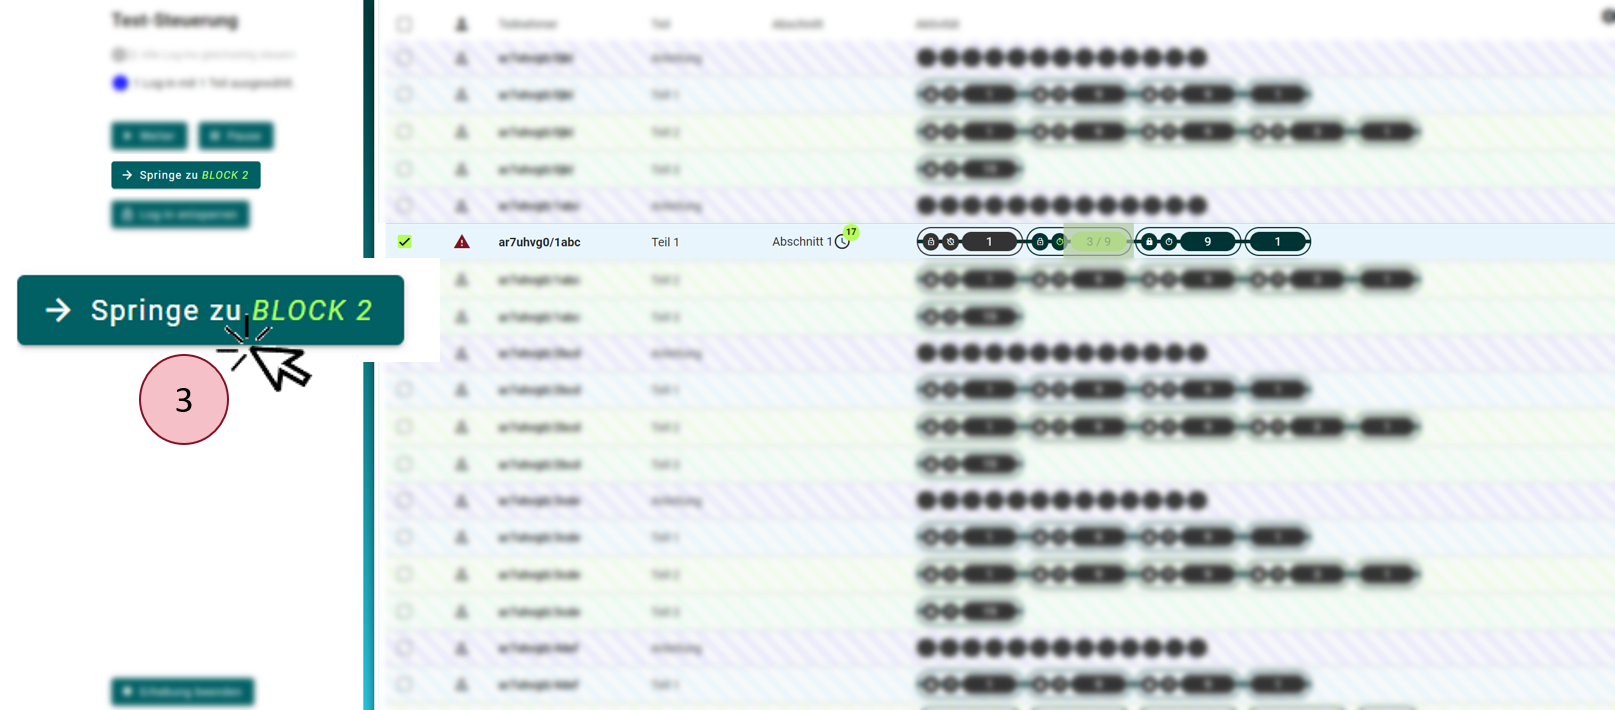
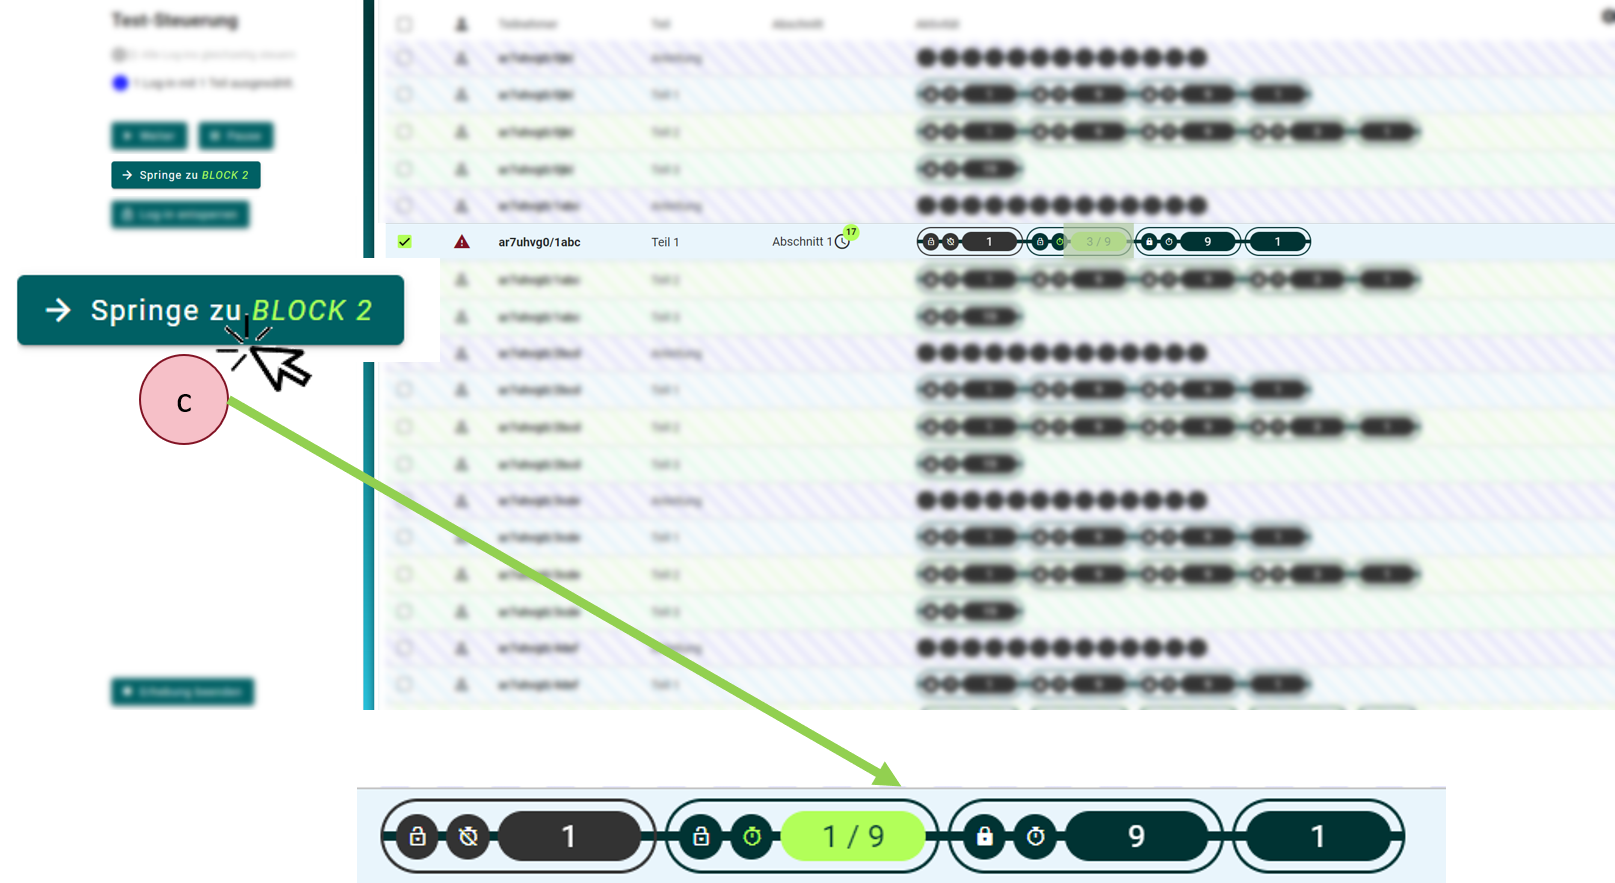
improve monitor

diff --git a/docs/monitor.html b/docs/monitor.html
@@ -98,10 +98,6 @@ ul.task-list li input[type="checkbox"] {
     <a class="nav-link active" href="./monitor.html" aria-current="page"> 
 <span class="menu-text">Testleitungskonsole</span></a>
   </li>  
-  <li class="nav-item">
-    <a class="nav-link" href="./about.html"> 
-<span class="menu-text">About</span></a>
-  </li>  
 </ul>
           </div> <!-- /navcollapse -->
           <div class="quarto-navbar-tools">
@@ -138,80 +134,69 @@ ul.task-list li input[type="checkbox"] {
 <p>Die Zugangsdaten der Testpersonen sind Gruppen zugeordnet. Der Testleitung steht ein spezielles Instrument zur Verfügung, eine Testgruppe während der Testdurchführung zu beobachten und die Teilnehmer ggf. im Test zu navigieren.</p>
 <ol type="1">
 <li>Notieren Sie sich aus der oberen Navigationsleiste die Nummer der aktuellen Aufgabe, die zum Abbruch geführt hat (z. B. Aufgabe 3, siehe <a href="#fig-trouble-problem" class="quarto-xref">Abbildung&nbsp;1</a>), und den Schülercode (z. B. <code>1abc</code>) der Testperson.</li>
-<li>Falls noch nicht bei der Vorbereitung geschehen: Melden Sie sich als Testleitung mit den entsprechenden Zugangsdaten im Testcenter an. Starten Sie den Gruppenmonitor (Schaltfläche unter dem Punkt Test-Gruppen Überwachung).</li>
 </ol>
 <div id="fig-trouble-problem" class="quarto-figure quarto-figure-center quarto-float anchored">
 <figure class="quarto-float quarto-float-fig figure">
 <div aria-describedby="fig-trouble-problem-caption-0ceaefa1-69ba-4598-a22c-09a6ac19f8ca">
-<a href="figures/trouble-problem.png" class="lightbox" data-glightbox="description: .lightbox-desc-1" data-gallery="quarto-lightbox-gallery-1"><img src="figures/trouble-problem.png" class="img-fluid figure-img"></a>
+<a href="figures/trouble-problem.png" class="lightbox" data-gallery="quarto-lightbox-gallery-1" data-glightbox="description: .lightbox-desc-1"><img src="figures/trouble-problem.png" class="img-fluid figure-img"></a>
 </div>
 <figcaption class="quarto-float-caption-bottom quarto-float-caption quarto-float-fig" id="fig-trouble-problem-caption-0ceaefa1-69ba-4598-a22c-09a6ac19f8ca">
 Abbildung&nbsp;1: Beispiel: Person <code>1abc</code> kann Aufgabe 3 nicht bearbeiten
 </figcaption>
 </figure>
 </div>
-<ol start="3" type="1">
-<li>Testnavigation:</li>
-</ol>
+<ol start="2" type="1">
+<li>Falls noch nicht bei der Vorbereitung geschehen: Melden Sie sich als Testleitung mit den entsprechenden Zugangsdaten im Testcenter an. Starten Sie den Gruppenmonitor (Schaltfläche unter dem Punkt Test-Gruppen Überwachung).</li>
+<li>Testnavigation:
 <ol type="a">
 <li>Suchen Sie in der Spalte „Teilnehmer“ die Testperson (1abc) sowie den Teil, den sie gerade bearbeitet (<a href="#fig-solution-1-2" class="quarto-xref">Abbildung&nbsp;2</a>).</li>
-<li>Klicken Sie auf den hellgrün gefärbten Block, in dem sich die Testperson gerade befindet (<a href="#fig-solution-3" class="quarto-xref">Abbildung&nbsp;3</a>)</li>
-<li>Betätigen Sie die Schaltfläche „Springe zu Block“ (<a href="#fig-solution-4" class="quarto-xref">Abbildung&nbsp;4</a>). Die Person wird somit wieder an den Anfang des Blocks geleitet.</li>
-<li>Wechseln Sie zum Gerät der Testperson. Überspringen Sie die defekte Aufgabe, indem Sie in der oberen Navigationsleiste direkt (nicht über die Pfeiltasten!) die nachfolgende Aufgabe auswählen (hier im Beispiel Aufgabe 4, siehe <a href="#fig-solution-4" class="quarto-xref">Abbildung&nbsp;4</a>). - <strong>Ausnahme:</strong> Liegen keine weiteren Aufgaben nach der defekten Aufgabe vor, entfällt dieser Schritt d.&nbsp;Die Testperson wurde auf den Anfang des Blocks zurückgesetzt und hat die Möglichkeit, die bisher bearbeiteten Aufgaben noch einmal zu kontrollieren. Nach Ablauf der Zeit wird die Testperson automatisch in den nächsten Abschnitt weitergeleitet.</li>
 </ol>
-<ol type="1">
-<li><strong>Fall 1:</strong> Sofern noch weitere außer der betreffenden Aufgabe (z. B. Aufgabe 2 und/oder Aufgabe 4) vorliegen:</li>
-</ol>
-<ul>
-<li><strong>Schritt 1:</strong> Suchen Sie die Person (<code>1abc</code>) und den Teil (im Beispiel: <em>Teil 1</em>), den sie gerade bearbeitet, in der Testleitungskonsole am vorbereiteten Ersatzgerät (siehe <a href="#fig-solution-1-2" class="quarto-xref">Abbildung&nbsp;2</a>).</li>
-<li><strong>Schritt 2:</strong> Klicken Sie auf denselben Block, auf dem sich die Person gerade befindet (hellgrün eingefärbt; siehe <a href="#fig-solution-1-2" class="quarto-xref">Abbildung&nbsp;2</a>).</li>
-<li><strong>Schritt 3:</strong> Betätigen Sie die Schaltfläche: <em>Springe zu Block</em> (siehe <a href="#fig-solution-3" class="quarto-xref">Abbildung&nbsp;3</a>). Auf diese Weise wird der Block nicht verlassen, sondern die Person wird wieder an den Anfang des Blocks geleitet. Dies ist im Falle eines zeitbeschränkten Blocks zu empfehlen, da beim Verlassen eines solchen Blocks der Block gesperrt werden würde.</li>
-<li><strong>Schritt 4a:</strong> Die Person wurde nun wieder an den Anfang des Blocks zurückgeleitet (siehe <a href="#fig-solution-4" class="quarto-xref">Abbildung&nbsp;4</a>).</li>
-<li><strong>Schritt 4b:</strong> Nun kann am Gerät der Testperson über die obere Navigationsleiste die Aufgabe übersprungen werden, indem man direkt (nicht über die Pfeiltasten) auf die nächste Aufgabe navigiert, indem man auf das betreffende Feld drückt (z. B. dann Aufgabe 4, siehe <a href="#fig-solution-4" class="quarto-xref">Abbildung&nbsp;4</a>). Liegen keine weiteren Aufgaben nach der betreffenden Aufgabe vor, bitten Sie die Person, ihre Eingaben in diesen Aufgaben zu kontrollieren - der Abschnitt des Tests kann leider nicht fortgeführt werden, aber beim nächsten Abschnitt geht es automatisch nach Ablauf der Zeit weiter.</li>
-</ul>
 <div id="fig-solution-1-2" class="quarto-figure quarto-figure-center quarto-float anchored">
 <figure class="quarto-float quarto-float-fig figure">
 <div aria-describedby="fig-solution-1-2-caption-0ceaefa1-69ba-4598-a22c-09a6ac19f8ca">
-<a href="figures/trouble-solution-1-2.png" class="lightbox" data-glightbox="description: .lightbox-desc-2" data-gallery="quarto-lightbox-gallery-2"><img src="figures/trouble-solution-1-2.png" class="img-fluid figure-img"></a>
+<a href="figures/trouble-solution-1-2.png" class="lightbox" data-gallery="quarto-lightbox-gallery-2" data-glightbox="description: .lightbox-desc-2"><img src="figures/trouble-solution-1-2.png" class="img-fluid figure-img"></a>
 </div>
 <figcaption class="quarto-float-caption-bottom quarto-float-caption quarto-float-fig" id="fig-solution-1-2-caption-0ceaefa1-69ba-4598-a22c-09a6ac19f8ca">
-Abbildung&nbsp;2: Auswählen der Person und markieren des aktuellen Blocks
+Abbildung&nbsp;2: Auswählen der Person und Markieren des aktuellen Blocks
 </figcaption>
 </figure>
 </div>
+<ol start="2" type="a">
+<li>Klicken Sie auf den hellgrün gefärbten Block, in dem sich die Testperson gerade befindet (<a href="#fig-solution-1-2" class="quarto-xref">Abbildung&nbsp;2</a>)</li>
+<li>Betätigen Sie die Schaltfläche „Springe zu Block“ (<a href="#fig-solution-3" class="quarto-xref">Abbildung&nbsp;3</a>). Die Person wird somit wieder an den Anfang des Blocks geleitet.</li>
+</ol>
 <div id="fig-solution-3" class="quarto-figure quarto-figure-center quarto-float anchored">
 <figure class="quarto-float quarto-float-fig figure">
 <div aria-describedby="fig-solution-3-caption-0ceaefa1-69ba-4598-a22c-09a6ac19f8ca">
-<a href="figures/trouble-solution-3.png" class="lightbox" data-glightbox="description: .lightbox-desc-3" data-gallery="quarto-lightbox-gallery-3"><img src="figures/trouble-solution-3.png" class="img-fluid figure-img"></a>
+<a href="figures/trouble-solution-3.png" class="lightbox" data-gallery="quarto-lightbox-gallery-3" data-glightbox="description: .lightbox-desc-3"><img src="figures/trouble-solution-3.png" class="img-fluid figure-img"></a>
 </div>
 <figcaption class="quarto-float-caption-bottom quarto-float-caption quarto-float-fig" id="fig-solution-3-caption-0ceaefa1-69ba-4598-a22c-09a6ac19f8ca">
 Abbildung&nbsp;3: Betätigen der Schaltfläche
 </figcaption>
 </figure>
 </div>
+<ol start="4" type="a">
+<li>Wechseln Sie zum Gerät der Testperson. Überspringen Sie die defekte Aufgabe, indem Sie in der oberen Navigationsleiste direkt (nicht über die Pfeiltasten!) die nachfolgende Aufgabe auswählen (hier im Beispiel Aufgabe 4, siehe <a href="#fig-solution-4" class="quarto-xref">Abbildung&nbsp;4</a>).
+<ul>
+<li><strong>Ausnahme:</strong> Liegen keine weiteren Aufgaben nach der defekten Aufgabe vor, entfällt der Schritt d.&nbsp;Die Testperson wurde auf den Anfang des Blocks zurückgesetzt und hat die Möglichkeit, die bisher bearbeiteten Aufgaben noch einmal zu kontrollieren. Nach Ablauf der Zeit wird die Testperson automatisch in den nächsten Abschnitt weitergeleitet.</li>
+</ul></li>
+</ol>
 <div id="fig-solution-4" class="quarto-figure quarto-figure-center quarto-float anchored">
 <figure class="quarto-float quarto-float-fig figure">
 <div aria-describedby="fig-solution-4-caption-0ceaefa1-69ba-4598-a22c-09a6ac19f8ca">
-<a href="figures/trouble-solution-4.png" class="lightbox" data-glightbox="description: .lightbox-desc-4" data-gallery="quarto-lightbox-gallery-4"><img src="figures/trouble-solution-4.png" class="img-fluid figure-img"></a>
+<a href="figures/trouble-solution-4.png" class="lightbox" data-gallery="quarto-lightbox-gallery-4" data-glightbox="description: .lightbox-desc-4"><img src="figures/trouble-solution-4.png" class="img-fluid figure-img"></a>
 </div>
 <figcaption class="quarto-float-caption-bottom quarto-float-caption quarto-float-fig" id="fig-solution-4-caption-0ceaefa1-69ba-4598-a22c-09a6ac19f8ca">
 Abbildung&nbsp;4: Erfolgreiches Zurücksetzen in der Testleitungskonsole (4a) und Weiternavigation (4b) am Schülergerät
 </figcaption>
 </figure>
-</div>
-<ul>
-<li><strong>Fall 2:</strong> Sofern keine weitere Aufgaben außer die betreffende Aufgabe in dem Abschnitt (z. B. nur Aufgabe 1) vorliegen, können Sie den Ablauf von <strong>Fall 1</strong> ebenfalls durchführen.
-<ul>
-<li>Dass die Ladeprobleme im zweiten Anlauf behoben sind, ist möglich, aber leider nicht garantiert.</li>
-<li>Sollten sich die Probleme halten, bitten Sie die Testperson um Geduld; die Testung kann leider erst im nächsten Abschnitt fortgesetzt werden (der Abschnitt sollte, wie gewohnt, nach Ablauf der vorgesehenen Zeit automatisch beendet werden).</li>
-</ul></li>
-<li>Vermerken Sie die Probleme bitte unter Angabe der Schüler-ID unter Punkt 3.3 im Sitzungsprotokoll.</li>
-</ul>
+</div></li>
+</ol>
 
 
 <div class="hidden" aria-hidden="true">
 <span class="glightbox-desc lightbox-desc-1">Abbildung&nbsp;1: Beispiel: Person <code>1abc</code> kann Aufgabe 3 nicht bearbeiten</span>
-<span class="glightbox-desc lightbox-desc-2">Abbildung&nbsp;2: Auswählen der Person und markieren des aktuellen Blocks</span>
+<span class="glightbox-desc lightbox-desc-2">Abbildung&nbsp;2: Auswählen der Person und Markieren des aktuellen Blocks</span>
 <span class="glightbox-desc lightbox-desc-3">Abbildung&nbsp;3: Betätigen der Schaltfläche</span>
 <span class="glightbox-desc lightbox-desc-4">Abbildung&nbsp;4: Erfolgreiches Zurücksetzen in der Testleitungskonsole (4a) und Weiternavigation (4b) am Schülergerät</span>
 </div>
@@ -619,7 +604,7 @@ window.document.addEventListener("DOMContentLoaded", function (event) {
     </div>
   </div>
 </footer>
-<script>var lightboxQuarto = GLightbox({"descPosition":"bottom","openEffect":"zoom","closeEffect":"zoom","loop":false,"selector":".lightbox"});
+<script>var lightboxQuarto = GLightbox({"selector":".lightbox","closeEffect":"zoom","descPosition":"bottom","openEffect":"zoom","loop":false});
 window.onload = () => {
   lightboxQuarto.on('slide_before_load', (data) => {
     const { slideIndex, slideNode, slideConfig, player, trigger } = data;

diff --git a/docs/index.html b/docs/index.html
@@ -98,10 +98,6 @@ ul.task-list li input[type="checkbox"] {
     <a class="nav-link" href="./monitor.html"> 
 <span class="menu-text">Testleitungskonsole</span></a>
   </li>  
-  <li class="nav-item">
-    <a class="nav-link" href="./about.html"> 
-<span class="menu-text">About</span></a>
-  </li>  
 </ul>
           </div> <!-- /navcollapse -->
           <div class="quarto-navbar-tools">
@@ -181,7 +177,7 @@ Das Testheft ist erfolgreich geladen, aber eine eingebettete GeoGebra-Datei wird
 <div class="callout-body-container callout-body">
 <div class="quarto-figure quarto-figure-center">
 <figure class="figure">
-<p><a href="figures/ggb-load.jpg" class="lightbox" data-glightbox="description: .lightbox-desc-1" data-gallery="quarto-lightbox-gallery-1" title="Fehlerhafte GeoGebra-Anzeige (es wird etwas geladen, aber nicht angezeigt)"><img src="figures/ggb-load.jpg" class="img-fluid figure-img" alt="Fehlerhafte GeoGebra-Anzeige (es wird etwas geladen, aber nicht angezeigt)"></a></p>
+<p><a href="figures/ggb-load.jpg" class="lightbox" data-gallery="quarto-lightbox-gallery-1" data-glightbox="description: .lightbox-desc-1" title="Fehlerhafte GeoGebra-Anzeige (es wird etwas geladen, aber nicht angezeigt)"><img src="figures/ggb-load.jpg" class="img-fluid figure-img" alt="Fehlerhafte GeoGebra-Anzeige (es wird etwas geladen, aber nicht angezeigt)"></a></p>
 <figcaption>Fehlerhafte GeoGebra-Anzeige (es wird etwas geladen, aber nicht angezeigt)</figcaption>
 </figure>
 </div>
@@ -277,7 +273,7 @@ Problem: Eine Audio- oder eine Video-Datei lädt nicht.
 <div class="callout-body-container callout-body">
 <div class="quarto-figure quarto-figure-center">
 <figure class="figure">
-<p><a href="figures/video-load.jpg" class="lightbox" data-glightbox="description: .lightbox-desc-2" data-gallery="quarto-lightbox-gallery-2" title="Video lädt trotz Anklickens des Play-Buttons nicht"><img src="figures/video-load.jpg" class="img-fluid figure-img" alt="Video lädt trotz Anklickens des Play-Buttons nicht"></a></p>
+<p><a href="figures/video-load.jpg" class="lightbox" data-gallery="quarto-lightbox-gallery-2" data-glightbox="description: .lightbox-desc-2" title="Video lädt trotz Anklickens des Play-Buttons nicht"><img src="figures/video-load.jpg" class="img-fluid figure-img" alt="Video lädt trotz Anklickens des Play-Buttons nicht"></a></p>
 <figcaption>Video lädt trotz Anklickens des Play-Buttons nicht</figcaption>
 </figure>
 </div>
@@ -295,7 +291,7 @@ Problem: Eine Audio- oder eine Video-Datei lädt nicht.
 <div id="fig-browser-refresh" class="quarto-figure quarto-figure-center quarto-float anchored">
 <figure class="quarto-float quarto-float-fig figure">
 <div aria-describedby="fig-browser-refresh-caption-0ceaefa1-69ba-4598-a22c-09a6ac19f8ca">
-<a href="figures/browser-refresh.jpg" class="lightbox" data-glightbox="description: .lightbox-desc-3" data-gallery="quarto-lightbox-gallery-3"><img src="figures/browser-refresh.jpg" class="img-fluid figure-img"></a>
+<a href="figures/browser-refresh.jpg" class="lightbox" data-gallery="quarto-lightbox-gallery-3" data-glightbox="description: .lightbox-desc-3"><img src="figures/browser-refresh.jpg" class="img-fluid figure-img"></a>
 </div>
 <figcaption class="quarto-float-caption-bottom quarto-float-caption quarto-float-fig" id="fig-browser-refresh-caption-0ceaefa1-69ba-4598-a22c-09a6ac19f8ca">
 Abbildung&nbsp;1: Einkürzen der Adresse auf https://iqb-testcenter2.de/
@@ -757,7 +753,7 @@ window.document.addEventListener("DOMContentLoaded", function (event) {
     </div>
   </div>
 </footer>
-<script>var lightboxQuarto = GLightbox({"closeEffect":"zoom","selector":".lightbox","openEffect":"zoom","descPosition":"bottom","loop":false});
+<script>var lightboxQuarto = GLightbox({"openEffect":"zoom","closeEffect":"zoom","loop":false,"descPosition":"bottom","selector":".lightbox"});
 window.onload = () => {
   lightboxQuarto.on('slide_before_load', (data) => {
     const { slideIndex, slideNode, slideConfig, player, trigger } = data;
